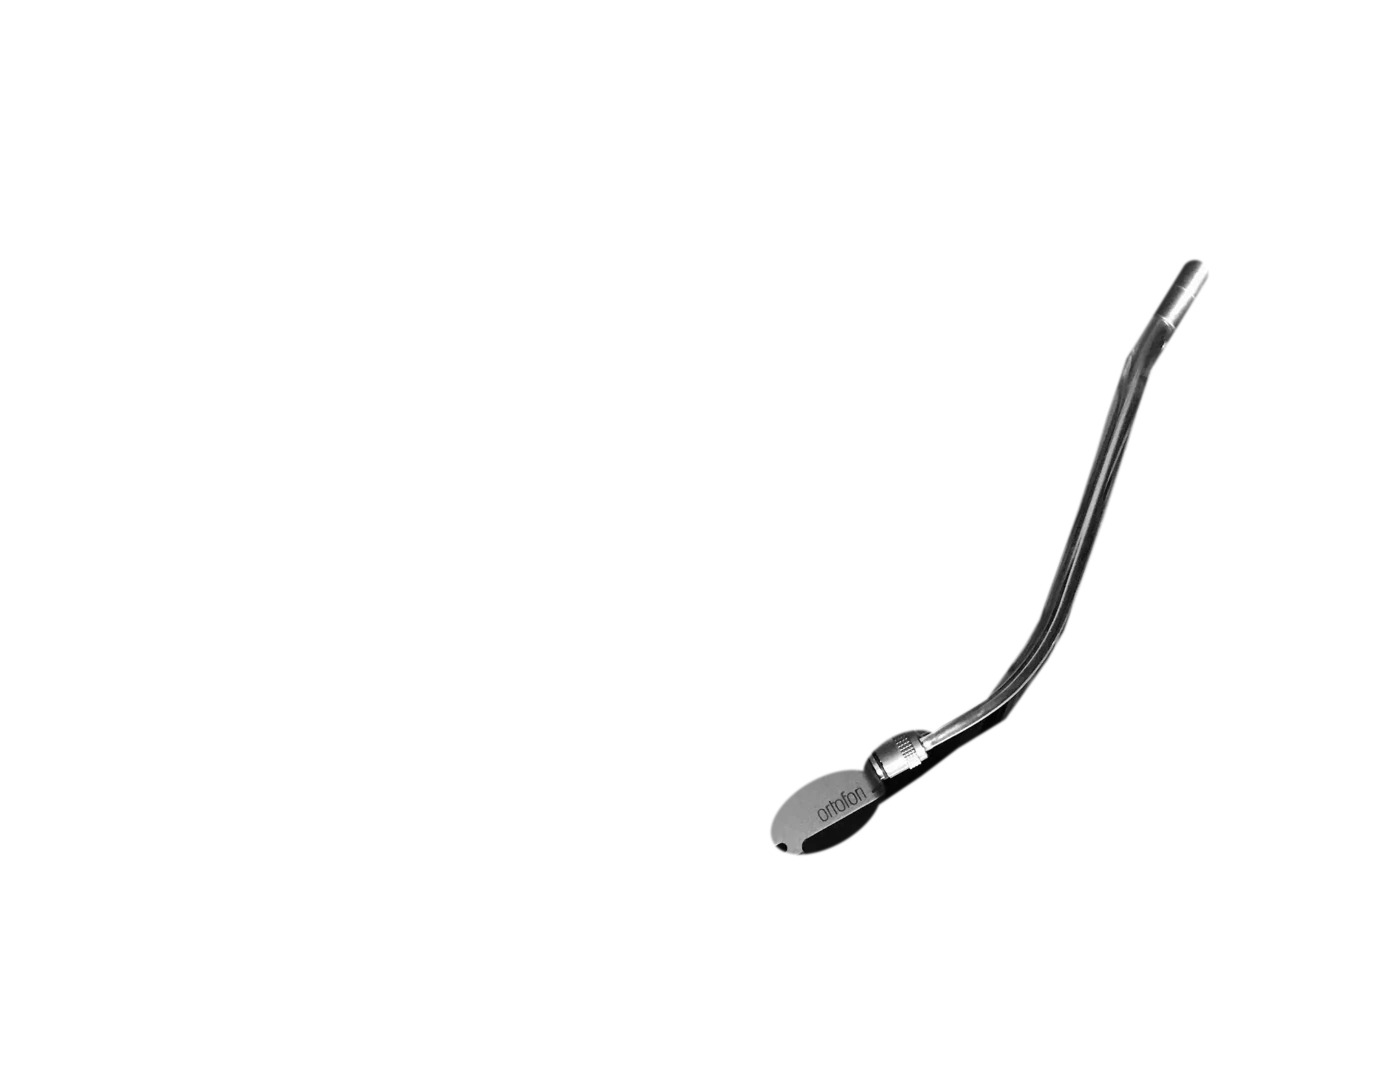
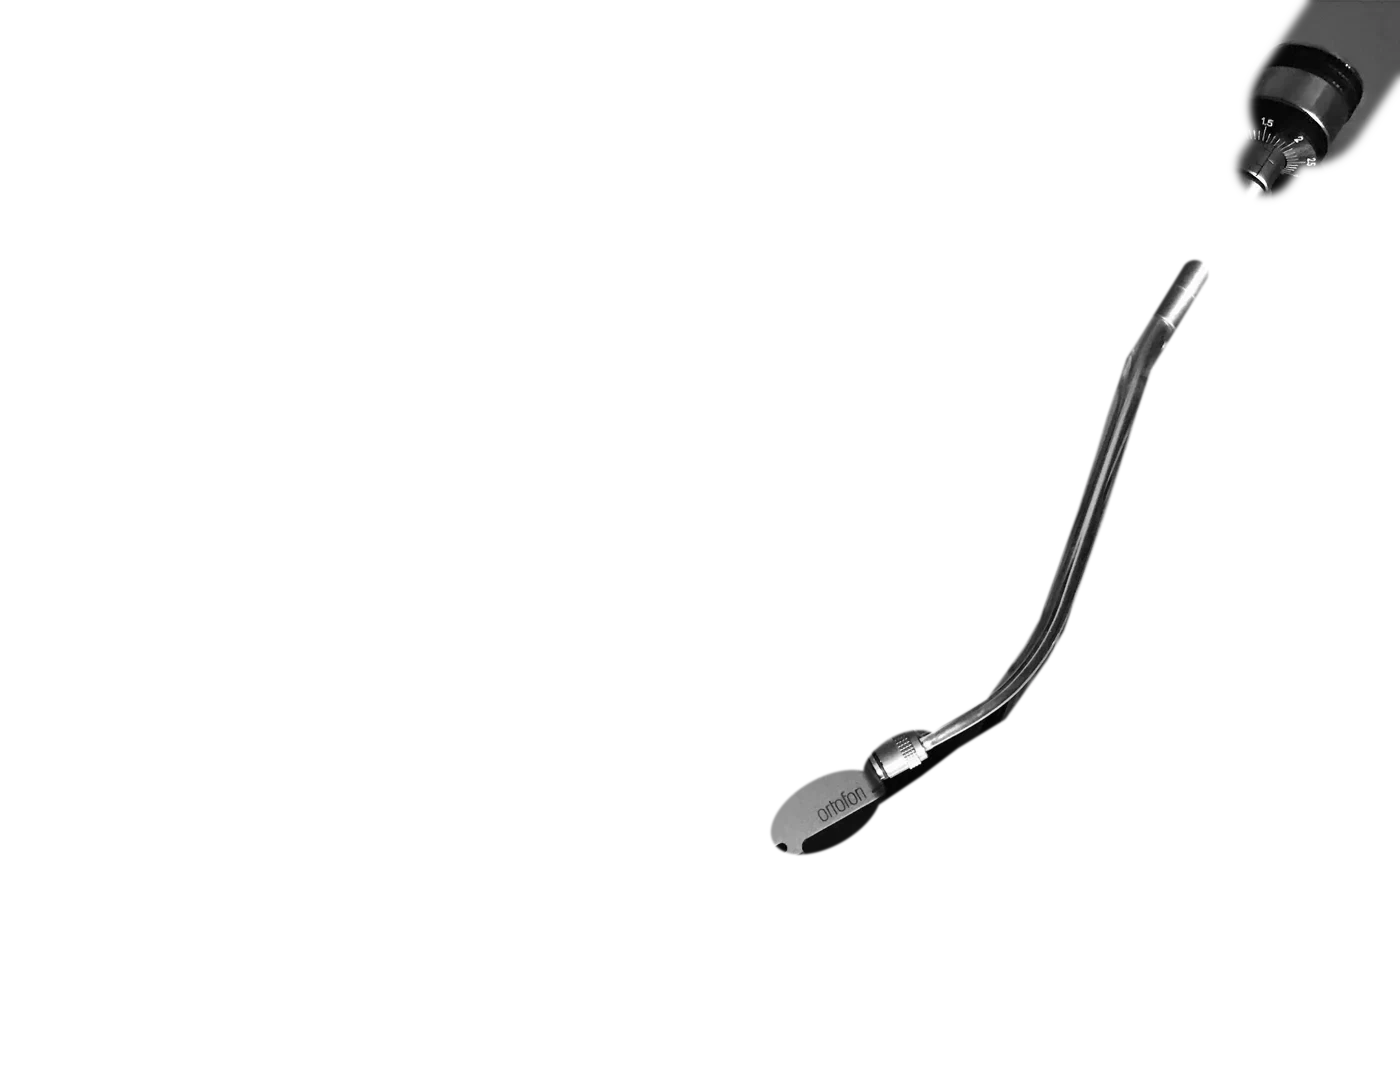
Das Gegengewicht schwenkt mit — Sāmi-Ra hat es im Video gesehen
Er hatte mir ein Video zum Technics 1200 MK5 geschickt, um meine Auskunft
zum Lifthebel nachzupruefen. Beim Hinsehen hat er etwas anderes gefunden,
und zwar zu Recht:

  „Das Teil auf der anderen Seite des Hebels gilt als Gegengewicht und
   bewegt sich mit, natuerlich immer so, dass sich beide Teile genau
   gegenueberstehen."

Genau so ist es. Und genau das hatte ich beim Freistellen weggelassen —
mit der Begruendung, es sei klein und liege auf schwarzem Grund. Es faellt
auf, sobald der Arm faehrt.

GEFUNDEN UEBER DIE GEOMETRIE, NICHT UEBER DIE HELLIGKEIT

Der uebliche Weg scheitert hier: Gegengewicht und Lagerplatte sind BEIDE
schwarz, kein Schwellenwert trennt sie. Aber die Lage ist bestimmt — das
Gewicht liegt auf der Verlaengerung der Linie Nadel–Lager:

  Lager  1194,6 / 273,1     Nadel  802 / 854
  Richtung entgegen der Nadel: −55,9°
  Das Gewicht liegt darauf zwischen r=125 und r=310

Danach war die Maske in einem Anlauf richtig, statt in vieren.

WAS DARUNTER LAG — zwei Bereiche, wie beim Tonarm:

  Auf der Lagerplatte (r < 210): um 70° um das Lager gedreht. Die Platte
  ist rund und konzentrisch zum Lager, also passt es.
  Auf der Zarge (r >= 210): waagerecht von 230 px weiter links geklont.
  Dort ist die Flaeche glatt.

Drei Versuche davor verworfen: senkrechte Interpolation (die Ecke stoesst
an den Bildrand, es blieb ein dunkles Band), waagerechte Interpolation
(lange Streifen quer durchs Bild), und Laplace-Fuellen von den Raendern
[…]

Changed region(s): [[0.86, 0.0, 1.0, 0.1838]]

diff --git a/assets/bild/HERKUNFT.md b/assets/bild/HERKUNFT.md
@@ -25,6 +25,15 @@ IYAMBAE-Marke oder das Logo des Senders.
 | `plattenspieler.webp` | das Deck **ohne** Arm |
 | `tonarm.webp` | nur der Arm, freigestellt |
 
+**Zum Arm gehoert das Gegengewicht.** Sāmi-Ra hat es am 27.08.2026 in
+einem Video gesehen und angemerkt: Es sitzt am hinteren Ende, dem Kopf
+genau gegenueber, und schwenkt mit. In der ersten Fassung hatte ich es
+weggelassen — es sei klein und liege auf schwarzem Grund. Es faellt auf.
+
+Gefunden wurde es nicht ueber die Helligkeit (Gegengewicht und Lagerplatte
+sind beide schwarz), sondern ueber die Geometrie: Es liegt auf der
+Verlaengerung der Linie Nadel–Lager, bei −55,9°.
+
 Der Arm liegt als eigene Ebene darueber und schwenkt um sein Lager — bei
 85,33 % / 25,35 % der Bildbreite und -hoehe. **Wer das Foto tauscht, muss
 diese Zahlen neu messen**, sonst dreht der Arm um einen falschen Punkt.
